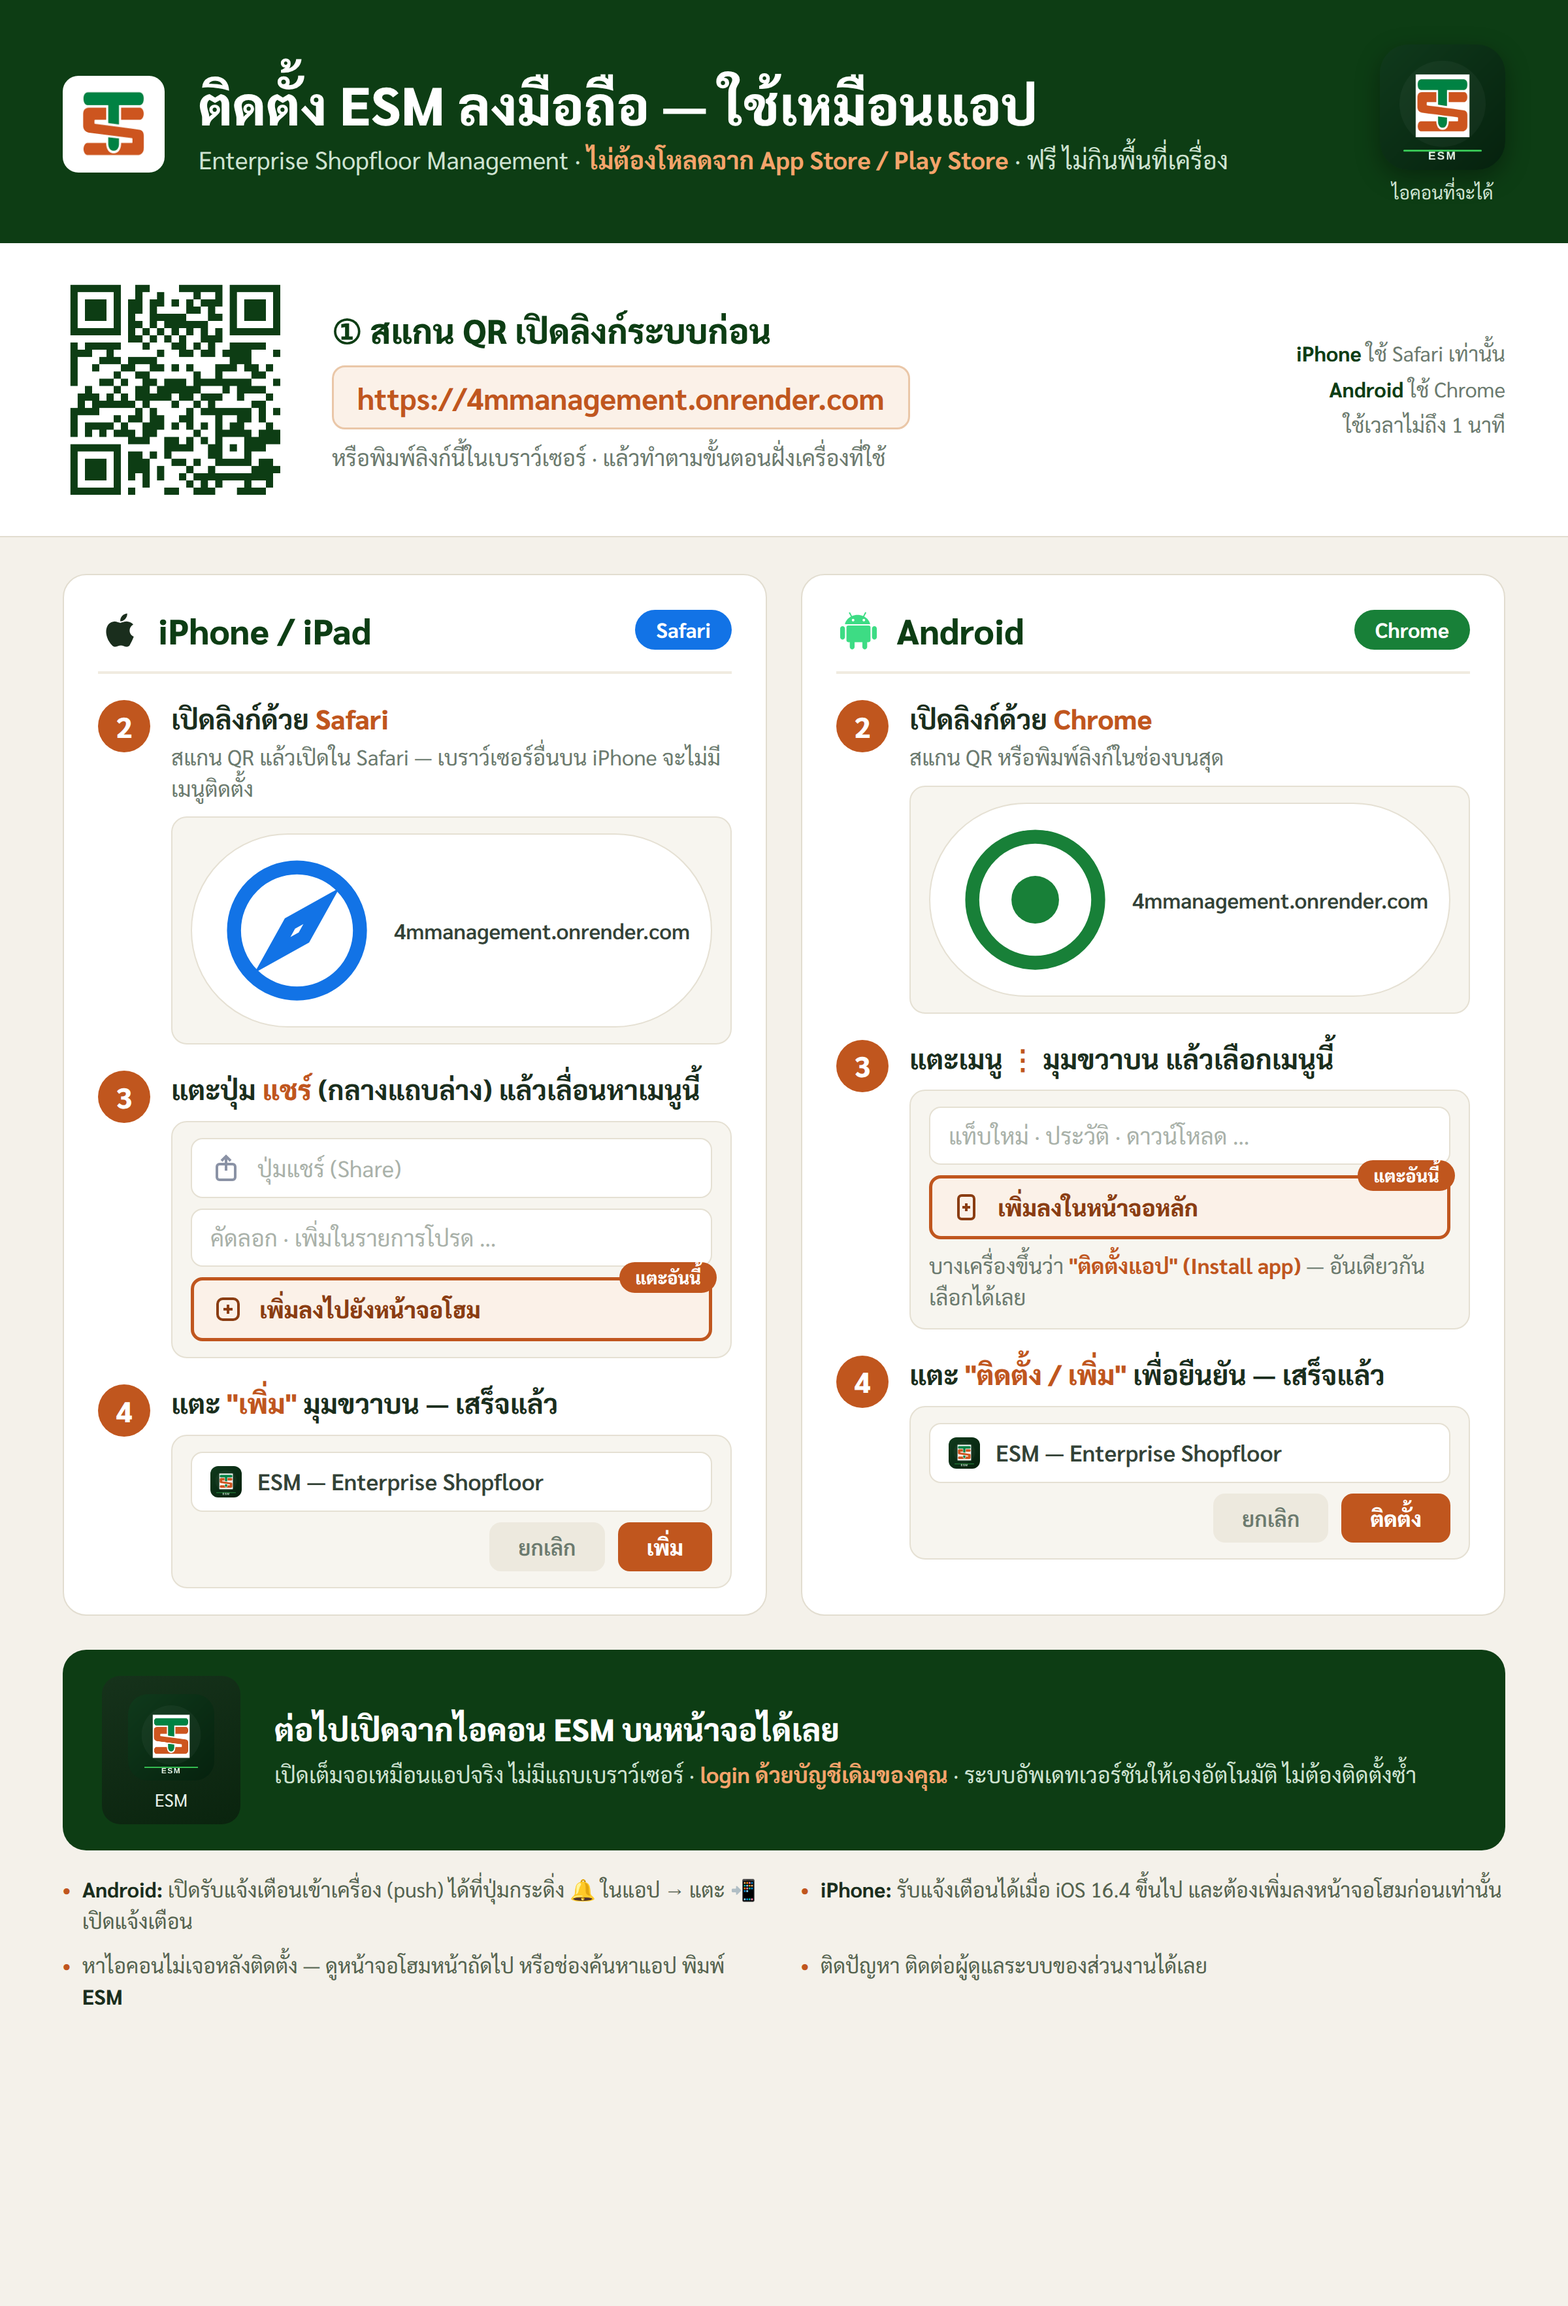
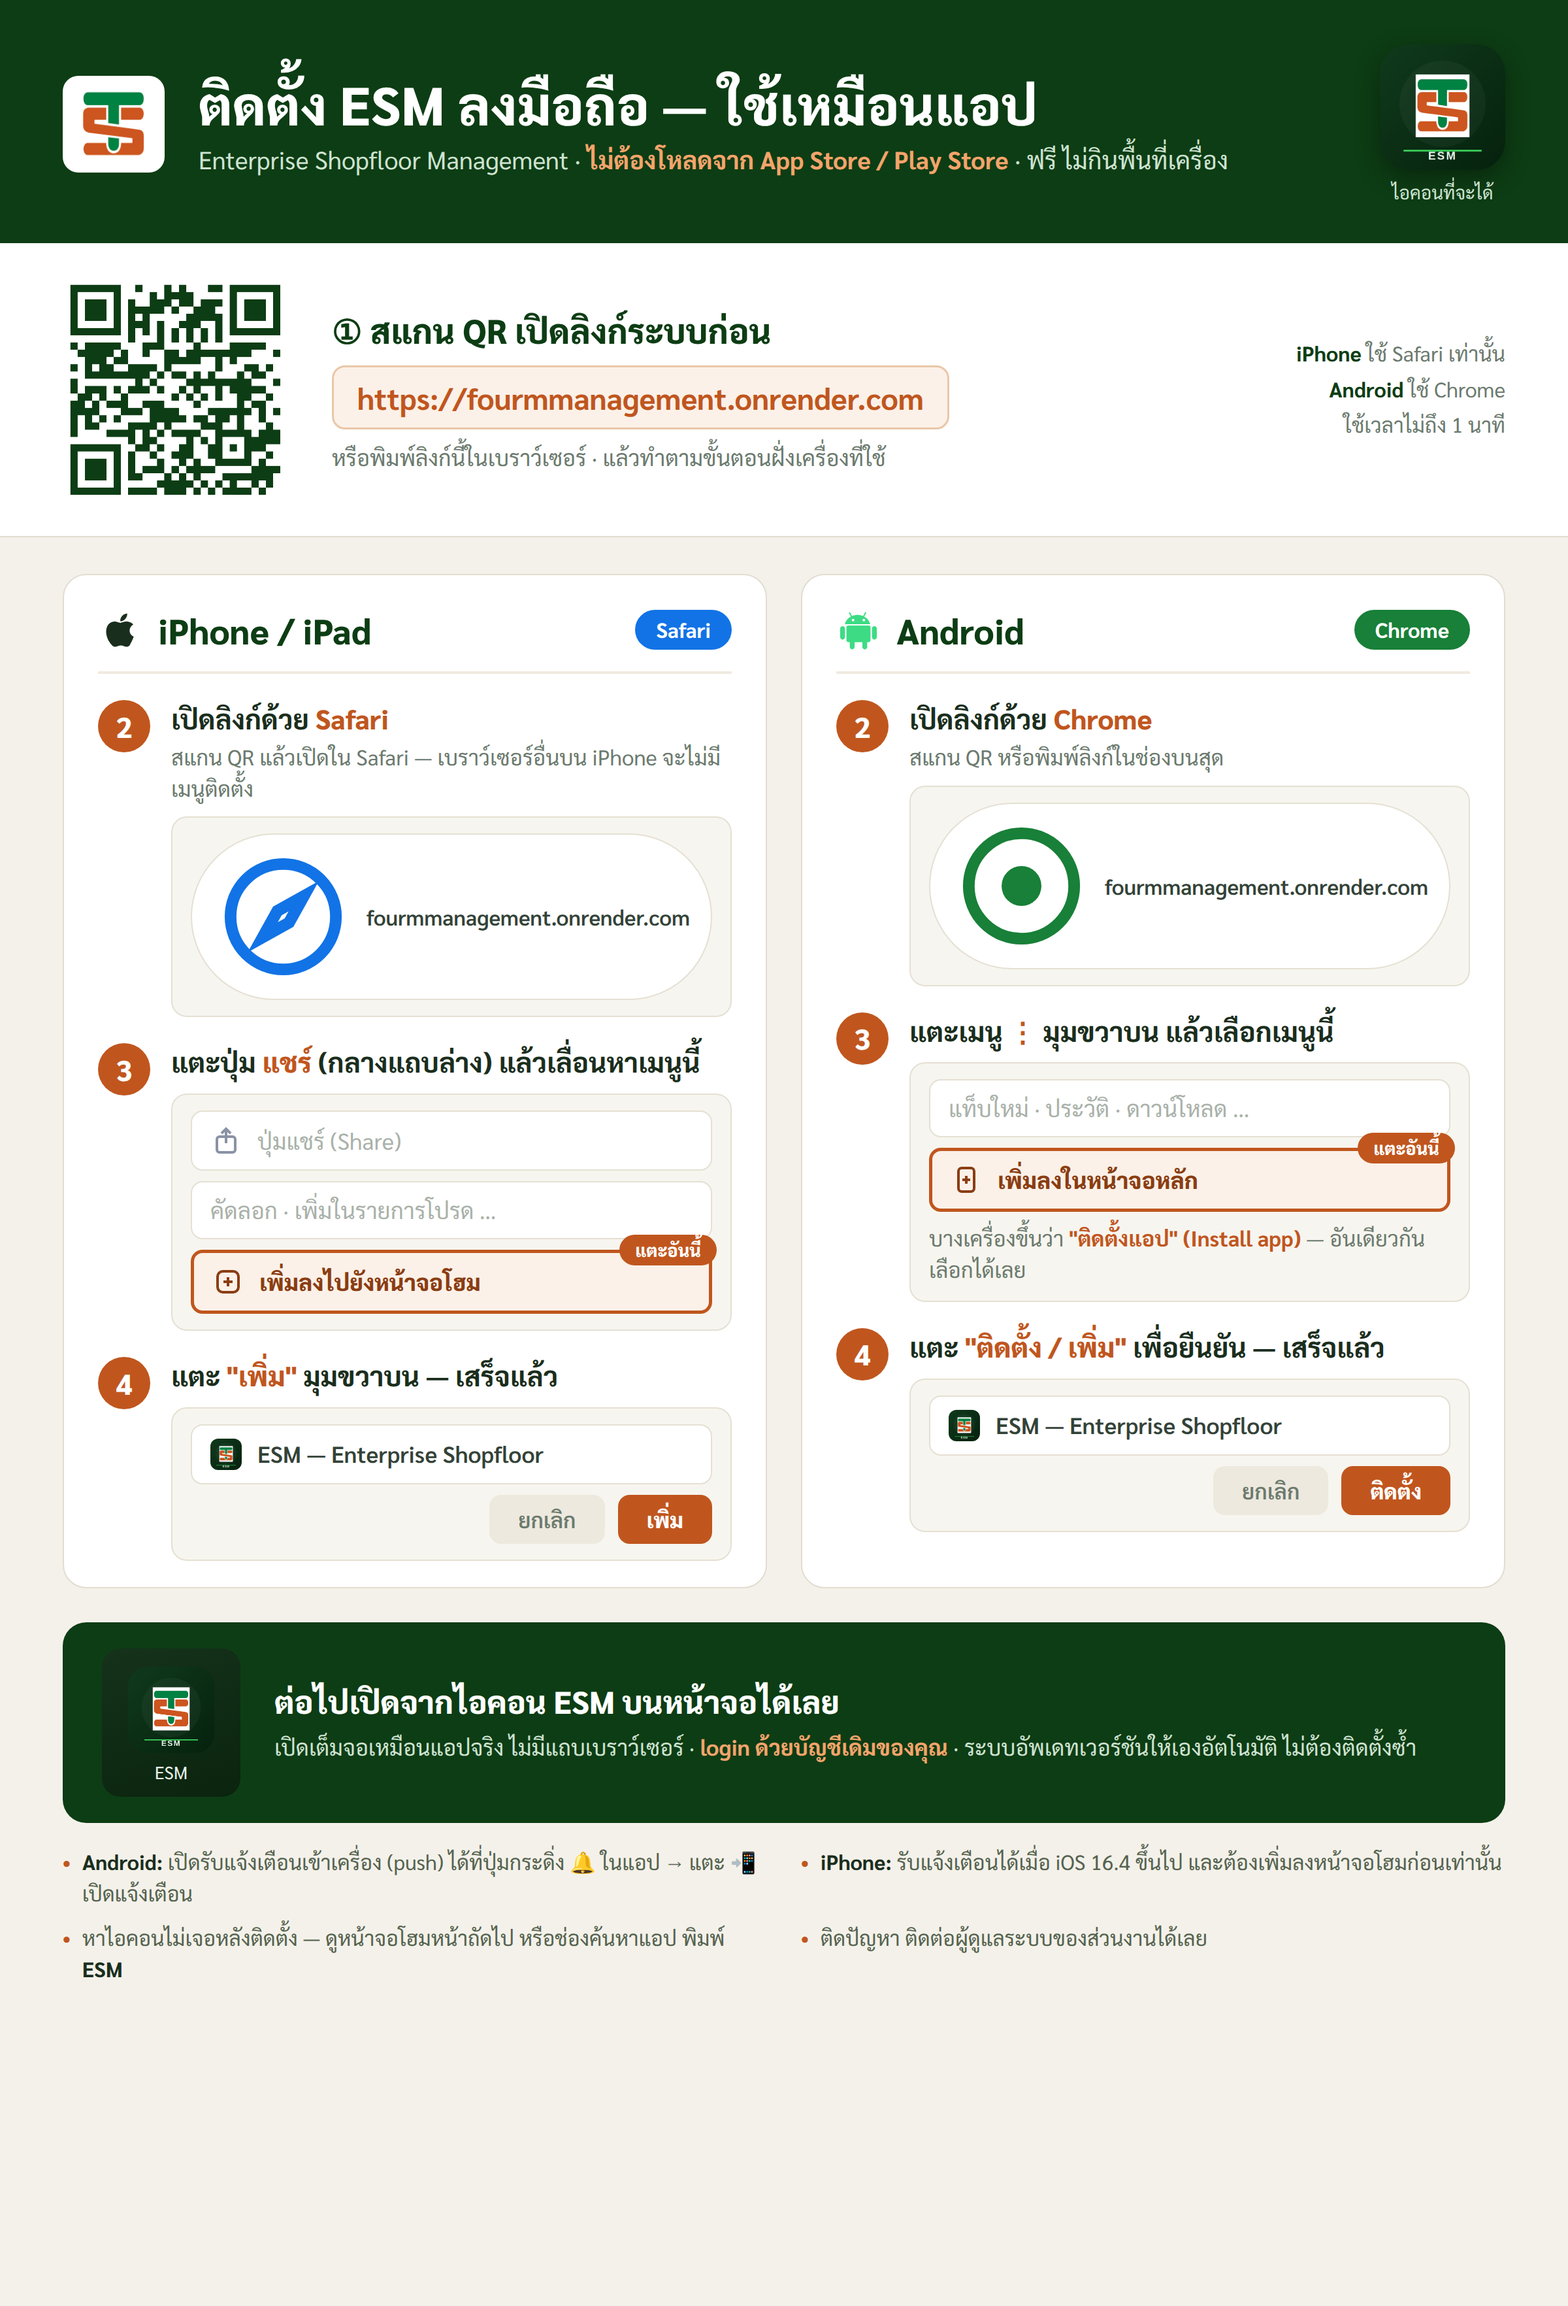
fix(docs): แก้ URL รูป how-to ติดตั้งแอปเป็น fourmmanagement.onrender.com (user ยืนยัน)
Claude-Session: https://claude.ai/code/session_018XVWX3zmmTvgM4f2kVwJKX

Changed region(s): [[0.0312, 0.343, 0.9688, 0.873], [0.0312, 0.1247, 0.1562, 0.2183], [0.3125, 0.1559, 0.5938, 0.1871]]

diff --git a/docs/pwa-install/poster.html b/docs/pwa-install/poster.html
@@ -89,7 +89,7 @@
     <img src="qr.png">
     <div>
       <div class="lead">① สแกน QR เปิดลิงก์ระบบก่อน</div>
-      <div class="url">https://4mmanagement.onrender.com</div>
+      <div class="url">https://fourmmanagement.onrender.com</div>
       <div class="note">หรือพิมพ์ลิงก์นี้ในเบราว์เซอร์ · แล้วทำตามขั้นตอนฝั่งเครื่องที่ใช้</div>
     </div>
     <div class="stepnum-legend"><b>iPhone</b> ใช้ Safari เท่านั้น<br><b>Android</b> ใช้ Chrome<br>ใช้เวลาไม่ถึง 1 นาที</div>
@@ -108,7 +108,7 @@
         <div class="sub">สแกน QR แล้วเปิดใน Safari — เบราว์เซอร์อื่นบน iPhone จะไม่มีเมนูติดตั้ง</div>
         <div class="mock"><div class="addressbar">
           <svg class="ric" viewBox="0 0 24 24" fill="none" stroke="#1273E6" stroke-width="2"><circle cx="12" cy="12" r="9"/><path d="M15.5 8.5 13 13l-4.5 2.5L11 11z"/></svg>
-          4mmanagement.onrender.com</div></div>
+          fourmmanagement.onrender.com</div></div>
       </div></div>
       <div class="step"><div class="no">3</div><div class="sbody">
         <div class="sT">แตะปุ่ม <b>แชร์</b> (กลางแถบล่าง) แล้วเลื่อนหาเมนูนี้</div>
@@ -137,7 +137,7 @@
         <div class="sub">สแกน QR หรือพิมพ์ลิงก์ในช่องบนสุด</div>
         <div class="mock"><div class="addressbar">
           <svg class="ric" viewBox="0 0 24 24"><circle cx="12" cy="12" r="9" fill="#fff" stroke="#188038" stroke-width="2"/><circle cx="12" cy="12" r="3.4" fill="#188038"/></svg>
-          4mmanagement.onrender.com</div></div>
+          fourmmanagement.onrender.com</div></div>
       </div></div>
       <div class="step"><div class="no">3</div><div class="sbody">
         <div class="sT">แตะเมนู <b>⋮</b> มุมขวาบน แล้วเลือกเมนูนี้</div>

diff --git a/docs/pwa-install/README.md b/docs/pwa-install/README.md
@@ -2,7 +2,7 @@
 
 - `esm-install-howto.png` — รูปสำเร็จ 2400×3528 ส่งให้ทีมงานทาง LINE/แชทได้เลย
 - `poster.html` — ต้นฉบับ (แก้ข้อความ/URL แล้ว render ใหม่ได้)
-- `qr.png` — QR ชี้ `https://4mmanagement.onrender.com` (สร้างด้วย `node -e` + lib `qrcode` ใน repo)
+- `qr.png` — QR ชี้ `https://fourmmanagement.onrender.com` (สร้างด้วย `node -e` + lib `qrcode` ใน repo)
 
 **วิธี render ใหม่หลังแก้ poster.html** (ใช้ Chromium ที่มากับ environment):
 ```
@@ -12,5 +12,5 @@ chromium --headless=new --no-sandbox --hide-scrollbars --force-device-scale-fact
 ฟอนต์: Sarabun (Regular แตกจาก `src/lib/pdfThaiFont.js` · Bold/SemiBold/ExtraBold จาก google/fonts raw) ต้องติดตั้งใน fontconfig ก่อน
 รูปในโปสเตอร์อ้าง `tslogo.png`(= src/assets/TS logo.png) + `icon-512.png`(= public/icon-512.png) — copy มาไว้โฟลเดอร์เดียวกันตอน render
 
-⚠ **URL ในรูป/QR = `4mmanagement.onrender.com` เดาจากชื่อ service ใน render.yaml** (ตรวจตรงจาก environment นี้ไม่ได้ — proxy บล็อก)
-ถ้าโดเมนจริงต่างจากนี้ ต้องแก้ใน poster.html + gen QR ใหม่ก่อนแจกทีม
+✅ **URL ยืนยันโดย user แล้ว 2026-08-14: `https://fourmmanagement.onrender.com`**
+เปลี่ยนโดเมนเมื่อไหร่ ต้องแก้ใน poster.html + gen QR ใหม่ก่อนแจกทีม
